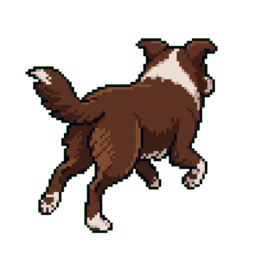
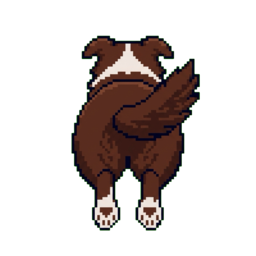
Zeppelin: fix up-run sprites, cursor-follow jitter, treat→sleep, sleep button
- Regenerated the 'running up' (back) sprites as a consistent pair (frame B is an edit of A) — the old two were different angles and jittered
- Cursor follow now uses hysteresis: he only starts chasing once the treat is RUN_START (165px) away and stops within RUN_STOP (92px), so he no longer twitches when the cursor is right on him
- After a treat he celebrates longer (excited → hearts) then dozes off in place, instead of appearing to sleep instantly
- Chat 💤 button is now a compact icon (was an oversized pill that crowded the header)

diff --git a/components/os/zeppelin.tsx b/components/os/zeppelin.tsx
@@ -28,7 +28,8 @@ const S = {
 };
 const SIZE = 104;
 const FOLLOW_SPEED = 290; // px / second toward the treat
-const NEAR = 96; // distance at which he stops to shake
+const RUN_START = 165; // cursor must be this far (from his centre) before he starts chasing
+const RUN_STOP = 92; // …and he stops to shake once it's this close (hysteresis kills the jitter)
 const PANEL_W = 268;
 const PANEL_H = 214;
 const WOOFS = ['woof', 'woof woof', 'woof woof woof!', 'awoooo~', 'woof! 🐾', 'woof woof'];
@@ -112,23 +113,27 @@ export function Zeppelin() {
     window.addEventListener('pointermove', onMove);
     let raf = 0;
     let prev = 0;
+    let running = false;
     const step = (t: number) => {
       const dt = prev ? Math.min(0.05, (t - prev) / 1000) : 0;
       prev = t;
-      const tx = cursorRef.current.x - SIZE / 2;
-      const ty = cursorRef.current.y - SIZE * 0.62;
+      const cx = cursorRef.current.x;
+      const cy = cursorRef.current.y;
       const { x, y } = posRef.current;
-      const dx = tx - x;
-      const dy = ty - y;
-      const dist = Math.hypot(dx, dy);
-      if (dist > NEAR) {
+      const dist = Math.hypot(cx - (x + SIZE / 2), cy - (y + SIZE / 2));
+      // Hysteresis: start chasing only past RUN_START, stop only within RUN_STOP — no jitter in between.
+      if (running ? dist <= RUN_STOP : dist >= RUN_START) running = !running;
+      if (running) {
+        const tx = cx - SIZE / 2;
+        const ty = cy - SIZE * 0.62;
+        const d = Math.hypot(tx - x, ty - y) || 1;
         const v = FOLLOW_SPEED * dt;
-        setPos({ x: x + (dx / dist) * v, y: y + (dy / dist) * v });
-        aimSprite(cursorRef.current.x - (x + SIZE / 2), cursorRef.current.y - (y + SIZE / 2));
+        setPos({ x: x + ((tx - x) / d) * v, y: y + ((ty - y) / d) * v });
+        aimSprite(cx - (x + SIZE / 2), cy - (y + SIZE / 2));
         setMoveDur(0);
         setMode('following');
       } else {
-        setFacing(cursorRef.current.x < x + SIZE / 2 ? -1 : 1);
+        setFacing(cx < x + SIZE / 2 ? -1 : 1);
         setMode('shake');
       }
       raf = requestAnimationFrame(step);
@@ -189,13 +194,12 @@ export function Zeppelin() {
 
   const giveTreat = () => {
     setTreat(false);
+    setMoveDur(0);
     setBubble('woof woof! 🦴❤️');
     setMode('excited');
-    setTimeout(() => setMode('loved'), 550);
-    setTimeout(() => {
-      setBubble(null);
-      sleep();
-    }, 2300);
+    window.setTimeout(() => setMode('loved'), 600);
+    window.setTimeout(() => setBubble(null), 3200);
+    window.setTimeout(() => setMode('sleeping'), 3400); // contentedly dozes off where he is
   };
 
   const startTreat = () => {
@@ -275,9 +279,9 @@ export function Zeppelin() {
                     type='button'
                     onClick={sleep}
                     title='Let him sleep'
-                    className='inline-flex items-center gap-1 rounded-lg border border-foreground/25 bg-secondary px-2.5 py-1.5 text-[12px] font-bold text-foreground transition hover:brightness-95'
+                    className='grid h-7 w-7 place-items-center rounded-lg border border-foreground/25 bg-foreground/10 text-[15px] transition hover:bg-foreground/20'
                   >
-                    💤 Sleep
+                    💤
                   </button>
                 </div>
               </div>